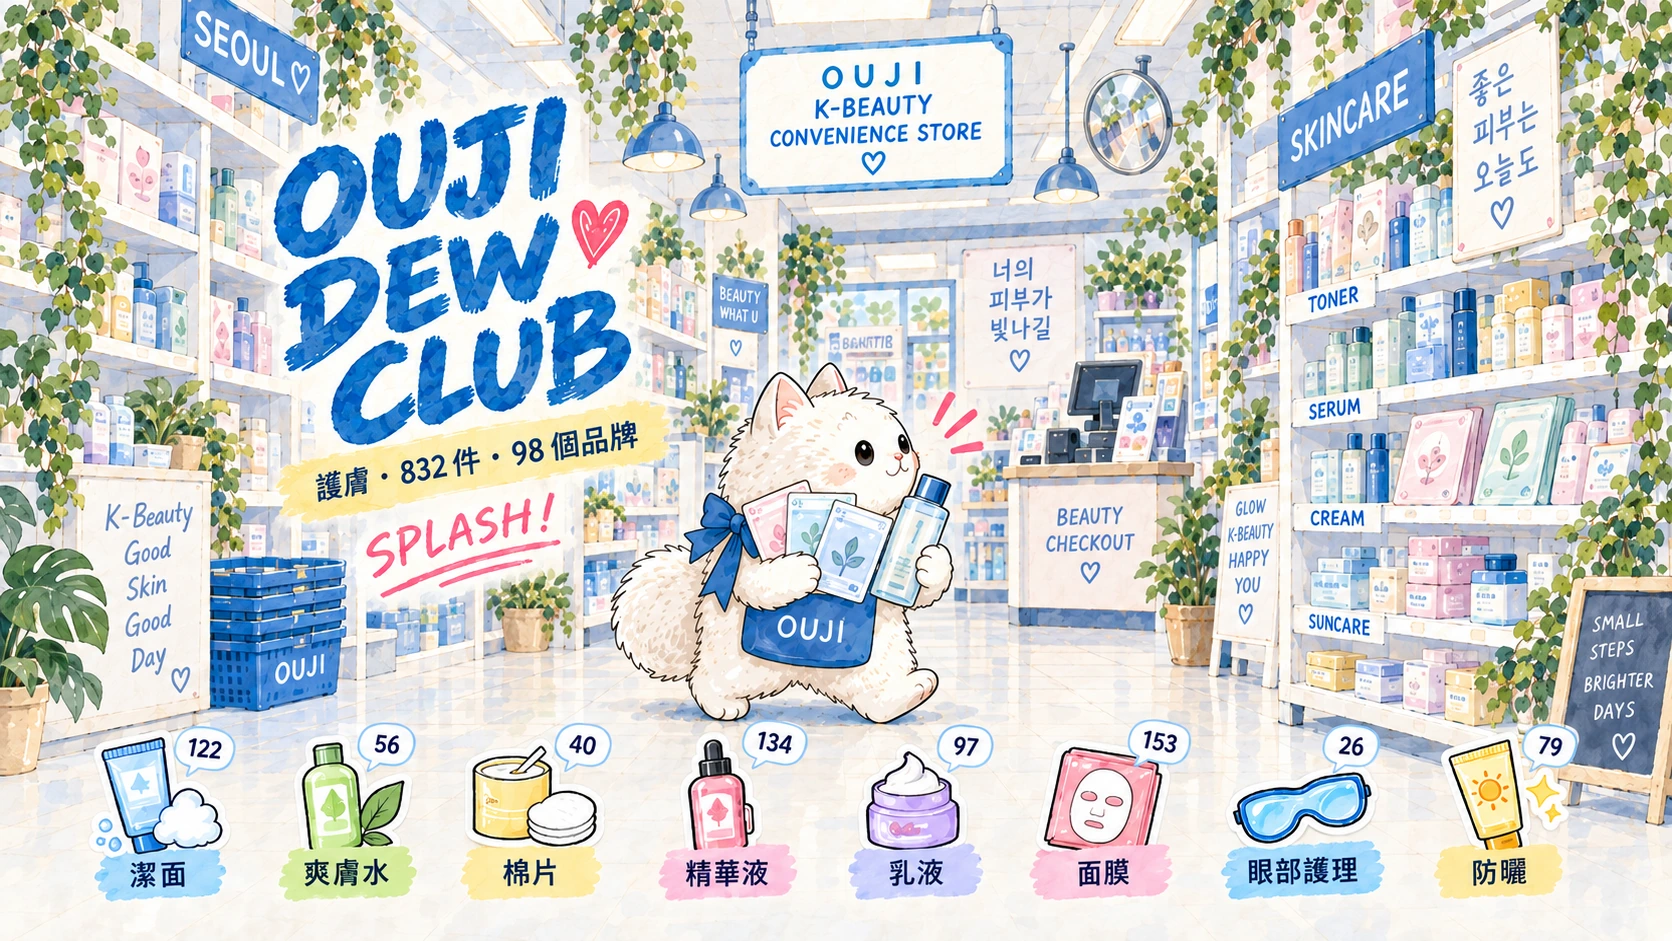
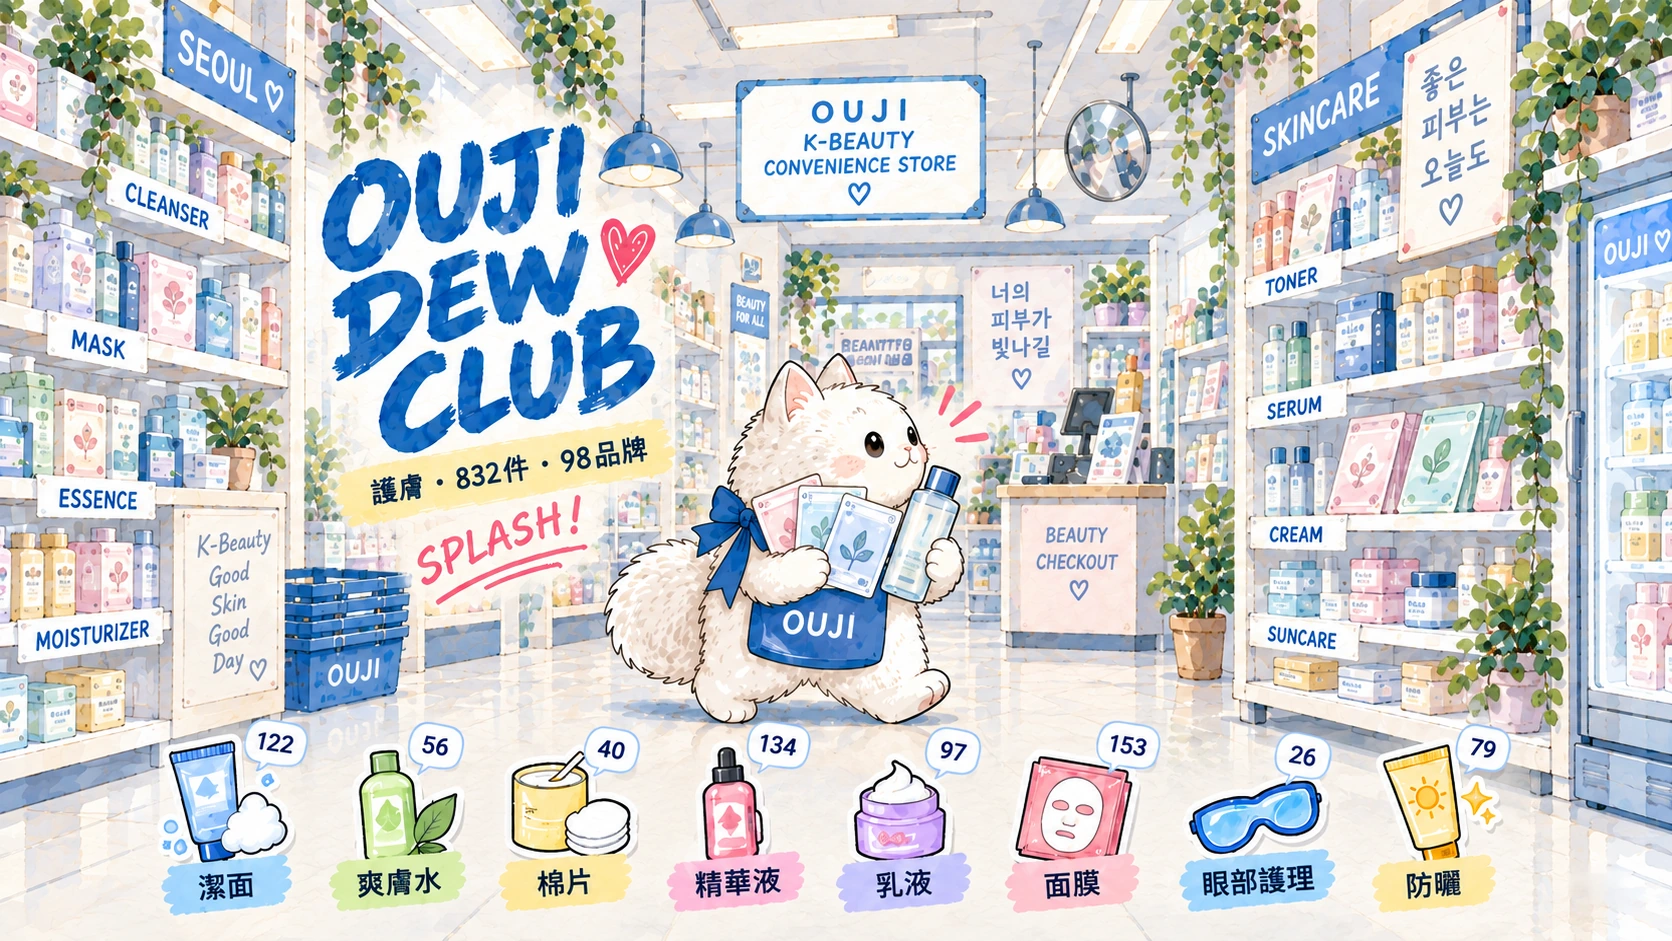
Balance skincare desktop hero detail

diff --git a/category.html b/category.html
@@ -281,7 +281,7 @@
          buildSkincareBooth() 用 Storefront 真資料填 —— 呢度一個數都唔准寫死。 -->
     <section class="skincare-booth" data-skincare-booth aria-labelledby="skincare-booth-title">
       <picture>
-        <source media="(min-width: 960px)" srcset="assets/images/skincare-watercolor-hero-desktop.webp">
+        <source media="(min-width: 960px)" srcset="assets/images/skincare-watercolor-hero-desktop.webp?v=20260919-balanced">
         <img class="skincare-booth__watercolor" src="assets/images/skincare-watercolor-hero.webp"
              alt="OUJI Dew Club 水彩護膚店與八個護膚分類"
              width="941" height="814" loading="eager" decoding="async" fetchpriority="high">
